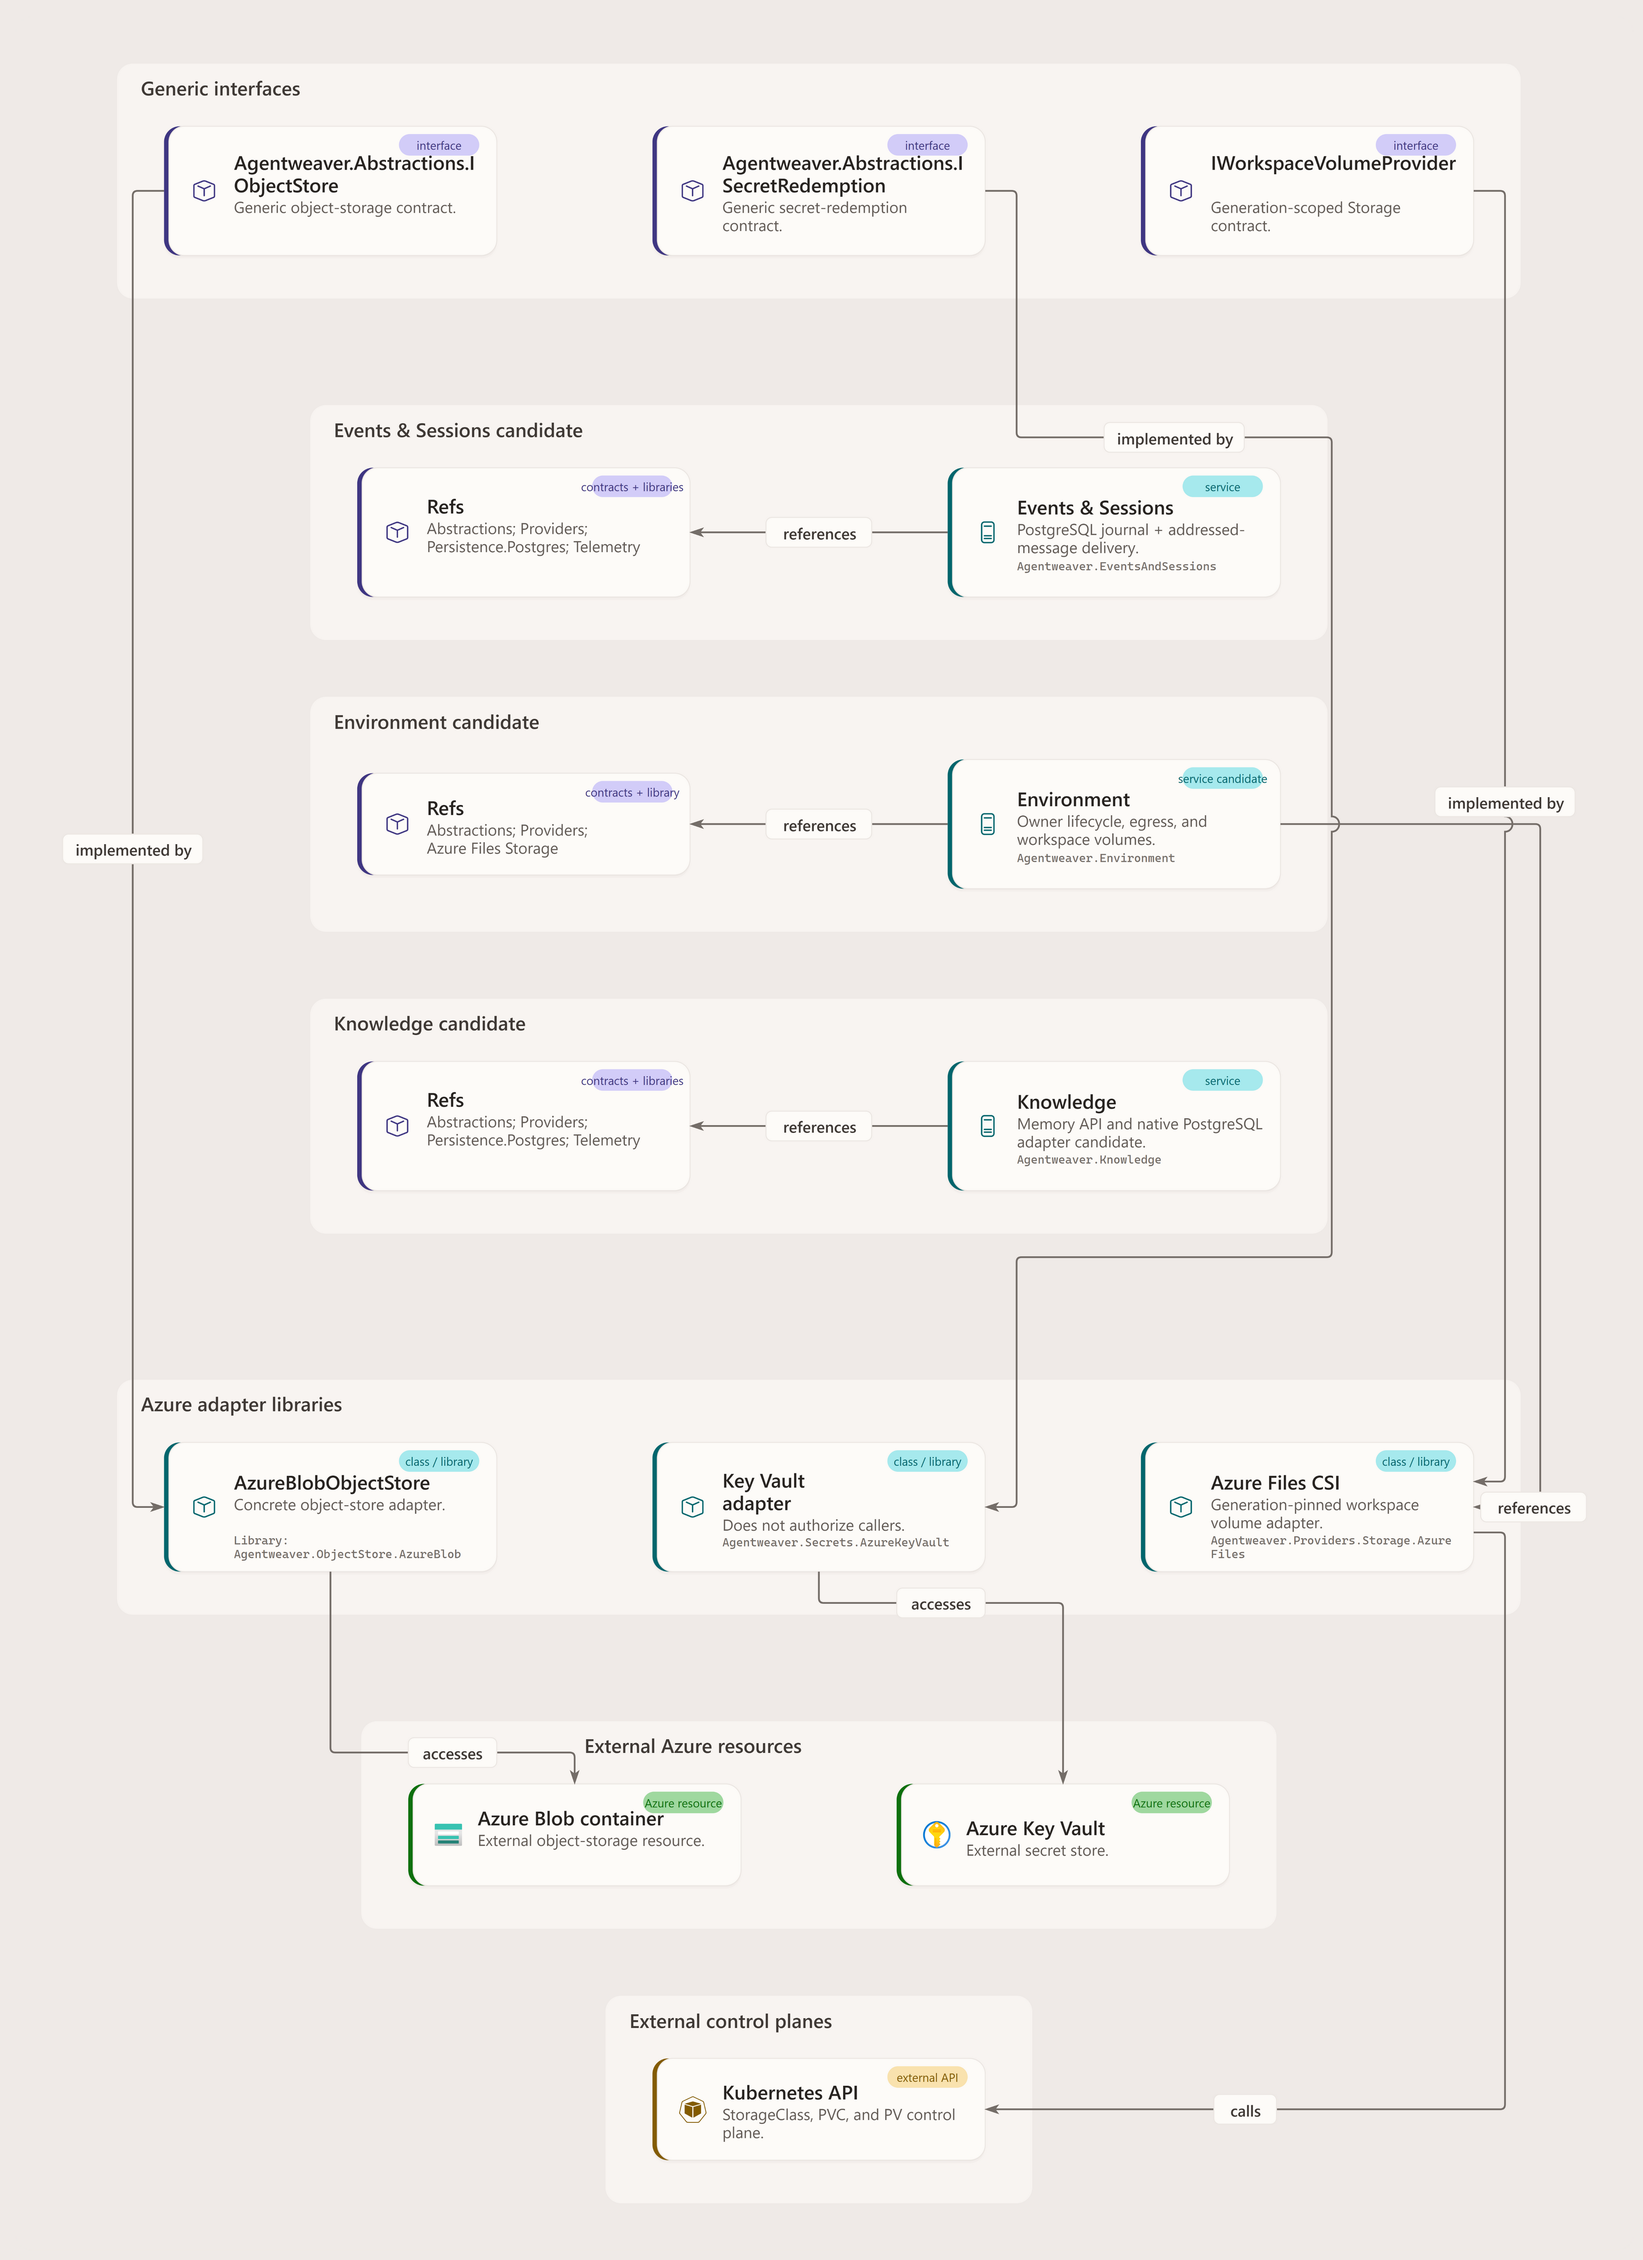
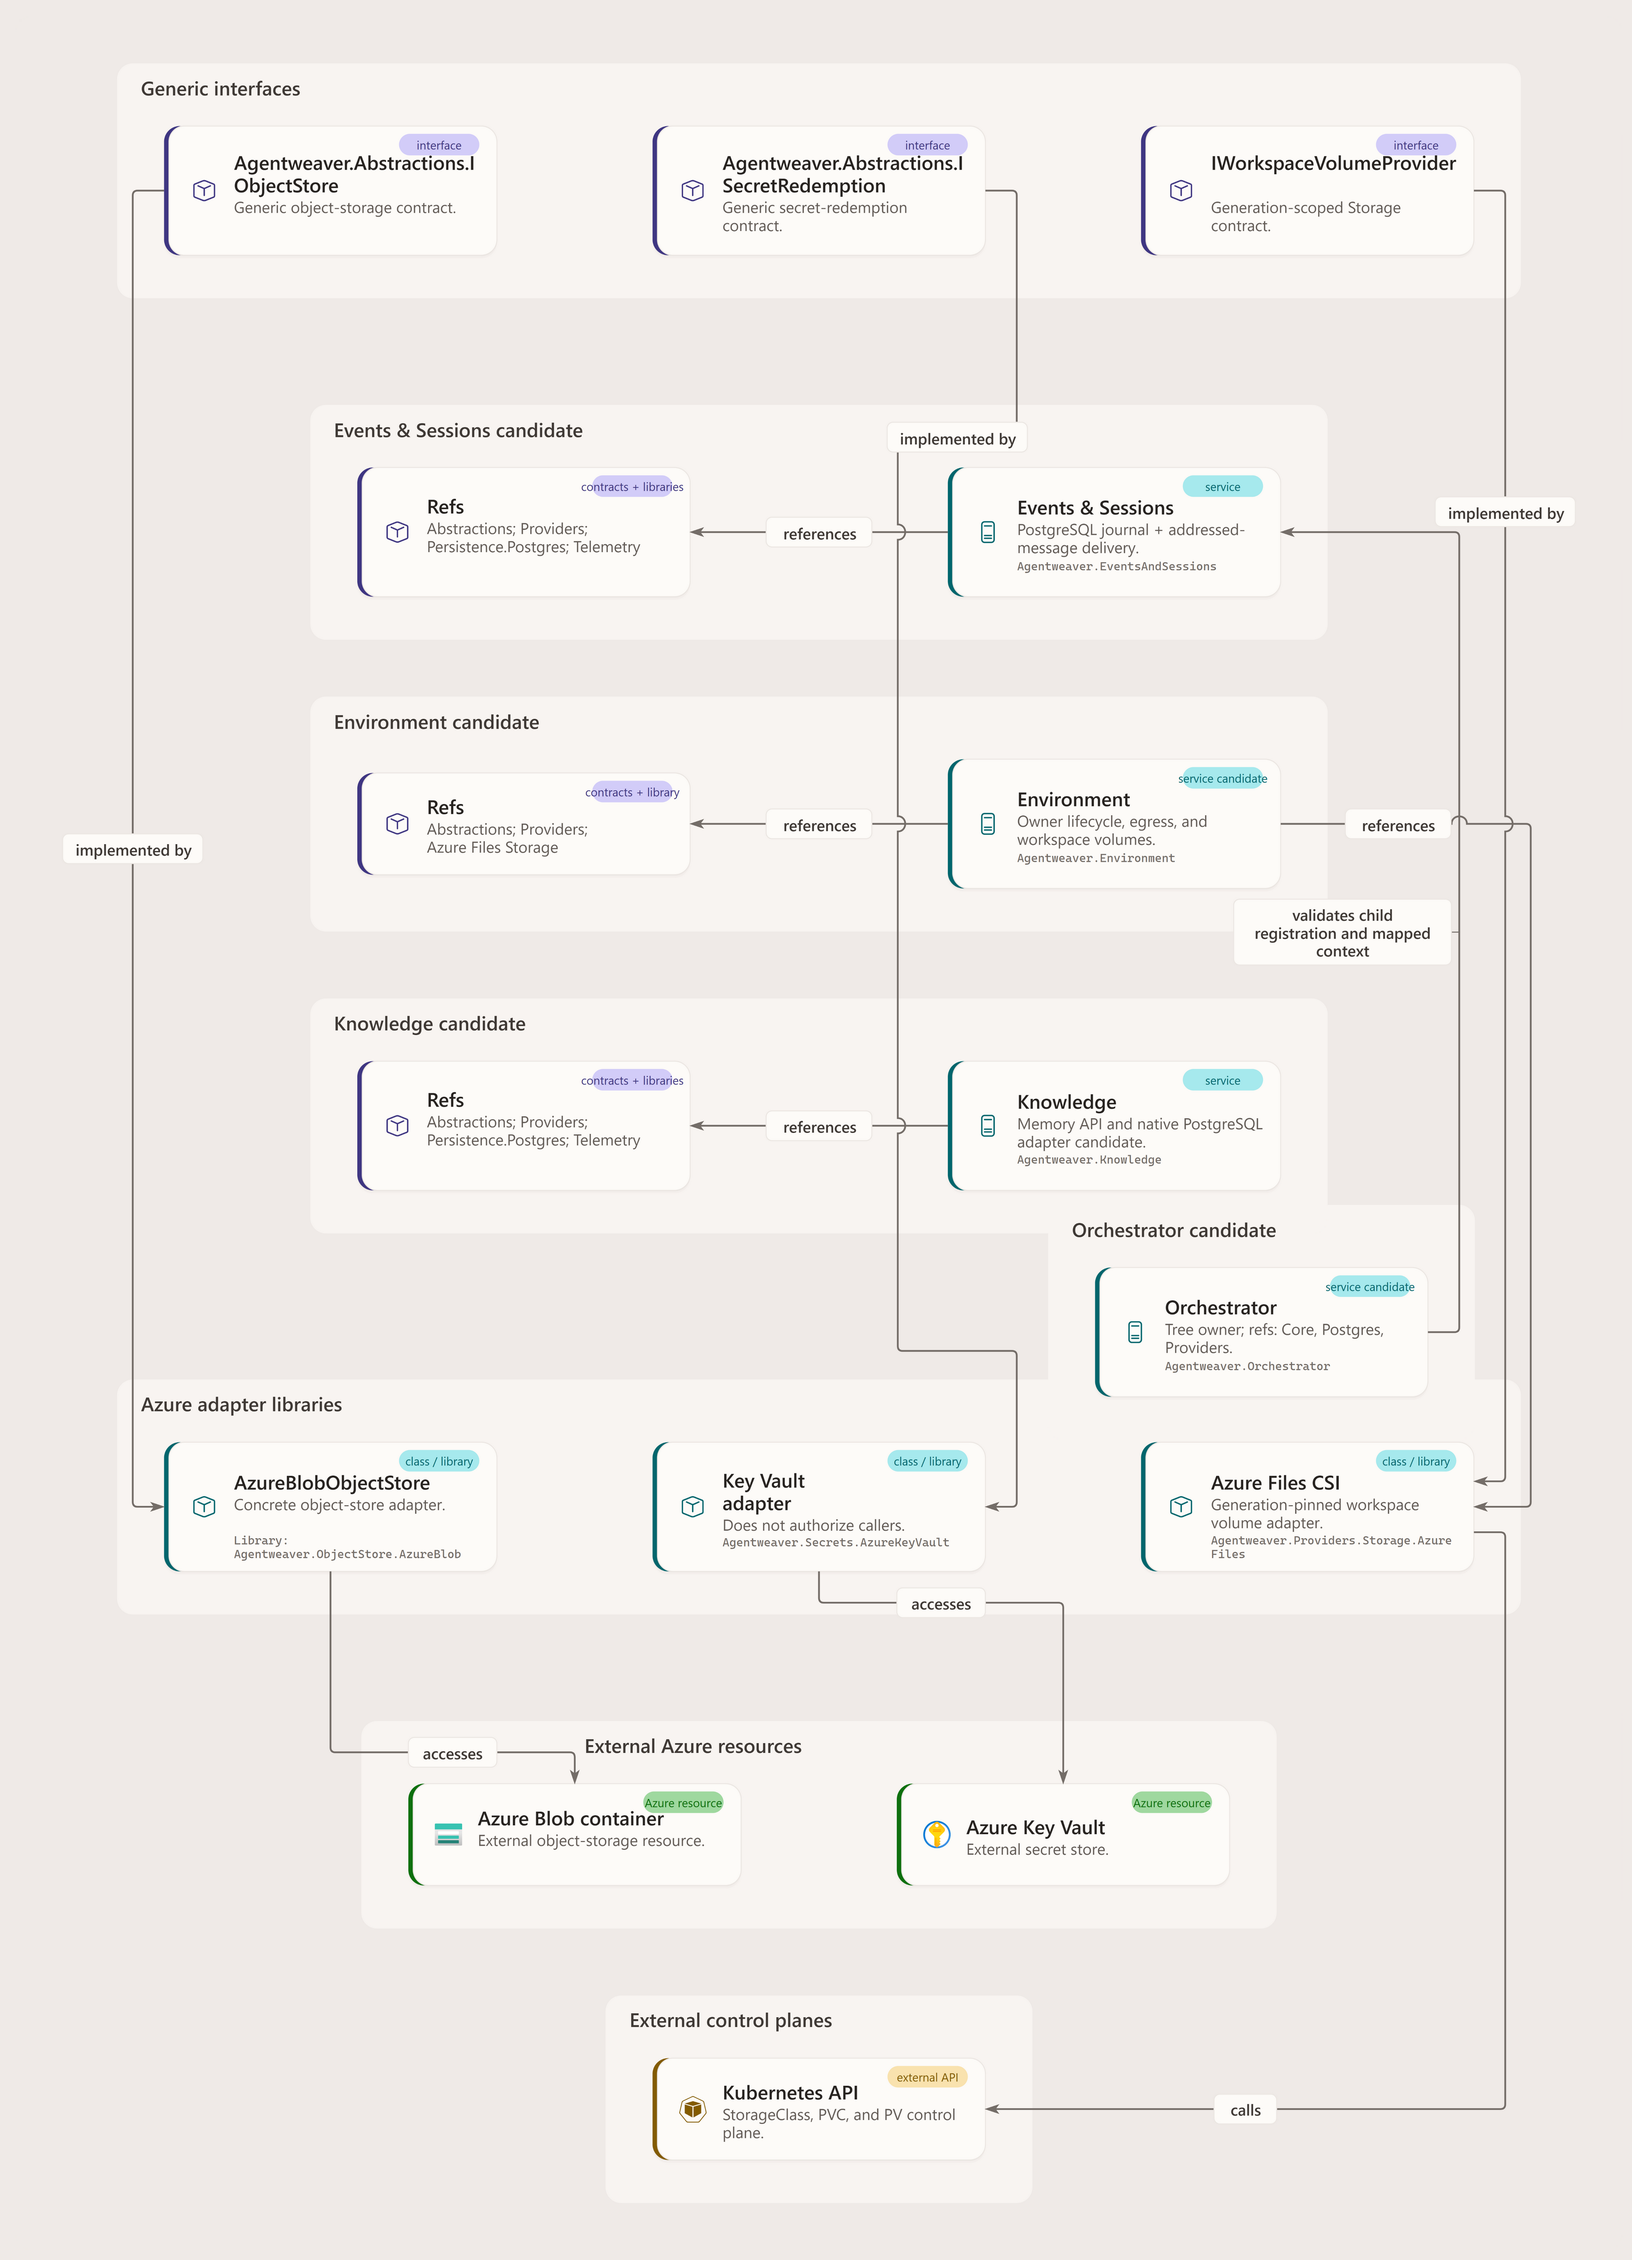
docs: cover explicit session forks and owner trees

diff --git a/docs/architecture/providers-models.md b/docs/architecture/providers-models.md
@@ -35,6 +35,15 @@ of falling back to a new default. The service emits bounded pin evidence through
 existing telemetry helper without recording option values, credentials, or raw resource
 IDs. See the [journal service reference](events-sessions.md).
 
+Explicit-event forks require the pinned provider's `sessions.events.fork` capability
+and a committed source event matched to its session-bound cursor. Events rechecks the
+Orchestrator's admission receipt inside the fork transaction, then atomically persists
+the target session and lineage with the provider-binding hash. Exact retries return the
+stored lineage; reusing an idempotency key for a different fork conflicts. The
+Orchestrator adds the lineage to its session tree only after its final owner-state
+recheck, so an unregistered target is not a usable child. Session tree and status
+routes report durable owner state; they do not imply a running AgentHost.
+
 Event version 2 defines a typed PolicyEvaluation payload, but the native journal does not
 advertise `sessions.policy.evaluations` or accept these events from generic run-scoped
 callers. Actor equality does not prove Orchestrator Core writer provenance. The capability
